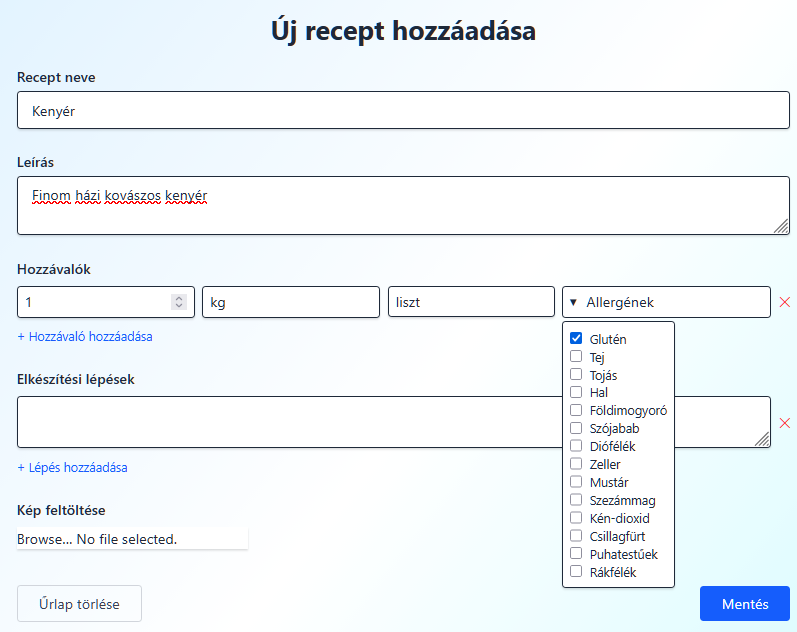
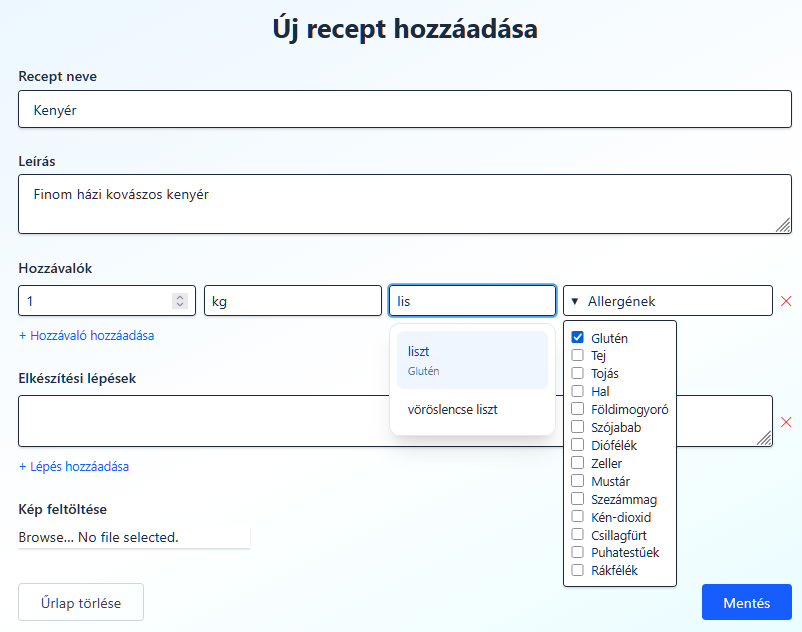
Added more things

diff --git a/docs/thesis-latex/chapters/problem-definition.tex b/docs/thesis-latex/chapters/problem-definition.tex
@@ -37,6 +37,8 @@ Elindításához Linux és macOS rendszereken a \texttt{start.sh}, Windows rends
 Az alapbeállításokkal a rendszer a \texttt{http://localhost:9393} címen lesz elérhető, amit egy webböngészőben lehet megnyitni.
 
 \section{Funkciók}
+Ez a szoftver otthoni felhasználóknak készült, akik receptjeiket szeretnék nyilvántartani és megosztani. A célközönség főként házi szakácsok és gasztronómiai hobbisták.
+
 Az alkalmazásban két fajta felhasználói szerepkör van: adminisztrátor és normál felhasználó. Az oldalon regisztráció nélkül böngészhetőek a receptek. Bejelentkezés után a normál felhasználók hozzáférhetnek a közösségi funkciókhoz, kezelhetik saját receptjeiket, míg az adminisztrátorok további jogosultságokkal rendelkeznek, mint például a felhasználók kezelése.
 \subsection{Receptkezelés}
 A felület lehetővé teszi a felhasználók számára, hogy könnyedén létrehozzanak, szerkeszthessenek és törölhessenek recepteket. Minden recepthez megadható egy cím, leírás, hozzávalók listája és elkészítési útmutató. Egy képet is feltölthetnek a recepthez. 
@@ -55,7 +57,7 @@ A felhasználók saját profiljukat is kezelhetik, ahol megtekinthetik és szerk
 
 \section{Az alkalmazás használatának felépítése}
 
-Az alkalmazás fő eleme az oldal felső részén elhelyezkedő navigációs sáv. Ez a sáv minden oldalon elérhető, és lehetővé teszi a gyors hozzáférést a legfontosabb funkciókhoz. A sávban található egy keresőmező, amely azonnali keresést tesz lehetővé a receptek között, találatokat jelenít meg a kulcsszavak alapján szinte azonnal. Ezen kívül ebben a sávban helyezkednek el gombok a bejelentkezéshez, új recept létrehozásához és összes recept listázására is.
+Az alkalmazás fő eleme az oldal felső részén elhelyezkedő navigációs sáv, amely a~\ref{fig:navbar} ábrán látható. Ez a sáv minden oldalon elérhető, és lehetővé teszi a gyors hozzáférést a legfontosabb funkciókhoz. A sávban található egy keresőmező, amely azonnali keresést tesz lehetővé a receptek között, találatokat jelenít meg a kulcsszavak alapján. Ezen kívül ebben a sávban helyezkednek el gombok a bejelentkezéshez, új recept létrehozásához és összes recept listázására is.
 
 \begin{figure}[H]
 	\centering
@@ -65,7 +67,7 @@ Az alkalmazás fő eleme az oldal felső részén elhelyezkedő navigációs sá
 
 \subsection{Kezdőoldal és receptlista}
 
-A kezdőlapon két kiemelt elem található: egy kiemelt recept szekció, ahol egy előre meghatározott recept jelenik meg, valamint egy recept kirakat, ahol minden nap hat véletlenszerű recept jelenik meg. Az oldal felső részén egy gomb is helyett kapott, amelyre kattintva megjelenik a recept listázó oldal.
+A kezdőlapon két kiemelt elem található: egy kiemelt recept szekció, ahol egy előre meghatározott recept jelenik meg, valamint egy recept kirakat, ahol minden nap hat véletlenszerű recept jelenik meg. Az oldal felső részén egy gomb is helyett kapott, amelyre kattintva megjelenik a recept listázó oldal. 
 
 \begin{figure}[H]
 	\centering
@@ -74,11 +76,11 @@ A kezdőlapon két kiemelt elem található: egy kiemelt recept szekció, ahol e
 \end{figure}
 
 
-A kiemelt receptnek láthatjuk a címét, egy rövid leírást és egy képet, valamint a recept értékelését. A recept kirakatban szintén megjelenik a cím, egy rövid leírás és egy kép, de az értékelés nem látható. Mindkét szekcióban kattinthatóak a receptek, így a részletes oldalra navigálhatunk.
+A kiemelt receptnél látható a címe, egy rövid leírás és egy kép, valamint a recept értékelése, amely a~\ref{fig:home-page}. ábrán megtekinthető. A recept kirakatban szintén megjelenik a cím, egy rövid leírás és egy kép, azonban az értékelés nem látható. Mindkét szekcióban kattinthatók a receptek, így a részletes oldalra navigálhatunk.
 
 \subsection{Recept részletező oldal}
 
-Rögtön a recept címe, leírása és képe jelenik meg. A kép felett látható a recept értékelése, amely a korábban említett módon, csillagok formájában jelenik meg. A csillagokra kattintva a recept értékelésére van lehetőség, amely új értékelést ad a recepthez. Egy felhasználó csak egyszer értékelhet egy receptet, de korábbi értékelését módosíthatja.
+Ez az oldal a~\ref{fig:navbar}. ábrán tekinthető meg. Elsőként a recept címe, leírása és képe jelenik meg. A kép felett látható a recept értékelése, amely a korábban említett módon, csillagok formájában jelenik meg. A csillagokra kattintva a recept értékelésére van lehetőség, amely új értékelést ad a recepthez. Egy felhasználó csak egyszer értékelhet egy receptet, de korábbi értékelését módosíthatja.
 
 A leírás alatt kap helyet a hozzávalók listája és az elkészítési útmutató. Könnyen áttekinthető formátumban jelennek meg, ahol a hozzávalók egy felsorolásban, míg az elkészítési útmutató egy számozott listában van megjelenítve. A kép alatt helyezkedik el az allergének listája is. 
 
@@ -88,7 +90,7 @@ A leírás alatt kap helyet a hozzávalók listája és az elkészítési útmut
 	\caption{A recept részletező oldal felépítése}\label{fig:recipe-details}
 \end{figure}
 
-Ezek alatt található a komment szekció. A kommentek időrendben jelennek meg, a legfrissebb komment van legfelül. Minden kommentben látható a kommentelő neve, a komment szövege és időpontja. A kommentelési blokk legfelső részén jelenik meg a beviteli mező, ahol a felhasználók új kommentet írhatnak. Ez csak akkor kitölthető, ha a felhasználó be van jelentkezve. 
+Az oldalon ez alatt található a komment szekció, amely a~\ref{fig:comment-section}. ábrán látható. A kommentek időrendben jelennek meg, a legfrissebb komment van legfelül. Minden kommentben látható a kommentelő neve, a komment szövege és időpontja. A kommentelési blokk legfelső részén jelenik meg a beviteli mező, ahol a felhasználók új kommentet írhatnak. Ez csak akkor kitölthető, ha a felhasználó be van jelentkezve.
 
 
 Bejelentkezés után a kép alatt megjelenik két gomb, amely lehetővé teszi a recept szerkesztését, illetve törlését, amennyiben a recept létrehozója vagy adminisztrátor vagyunk. A szerkesztés egy új oldalra navigál, ahol módosíthatjuk a recept adatait, hozzávalóit, elkészítési útmutatóját és képét. A törlés gomb megnyomásával egy felugró ablak jelenik meg, hogy biztosan szeretnénk-e törölni a receptet. 
@@ -103,7 +105,7 @@ Bejelentkezés után a kép alatt megjelenik két gomb, amely lehetővé teszi a
 
 A receptek létrehozására, illetve szerkesztésére egy ugyanúgy felépített oldalon van lehetőség.
 Ezen a felületen tudjuk megadni a recept címét, leírását, hozzávalókat, elkészítési útmutatót, illetve tudunk feltölteni képet. A rendszer minden hozzávalóhoz automatikusan megpróbálja kitalálni, hogy milyen allergén információk tartoznak hozzá, de ezeket a felhasználó manuálisan is módosíthatja. 
-Kötelező megadni a címet; leírást; legalább egy darab összetevőt, annak minden elemét; illetve egy elkészítési lépést. Kép feltöltése, illetve további allergének megjelölése opcionális. A hozzávalókhoz megadott allergének alapján készül el a recepthez az allergénlista. Minden beküldendő adat a felületen ellenőrizve van, nem engedi az oldal, hogy hibás adatokkal küldjünk be receptet. A felületen egyértelműen fel van tüntetve, ha a recept készítése közben valamilyen hiba történik.
+Kötelező megadni a címet; leírást; legalább egy darab összetevőt, annak minden elemét; illetve egy elkészítési lépést. Kép feltöltése, illetve további allergének megjelölése opcionális.  Minden beküldendő adat a felületen ellenőrizve van, nem engedi az oldal, hogy hibás vagy hiányos adatokkal küldjünk be receptet. A felületen egyértelműen fel van tüntetve, ha a recept készítése közben valamilyen hiba történik.
 
 \begin{figure}[H]
 	\centering
@@ -111,11 +113,14 @@ Kötelező megadni a címet; leírást; legalább egy darab összetevőt, annak 
 	\caption{A recept létrehozására és szerkesztésére szolgáló felület}\label{fig:recipe-editor}
 \end{figure}
 
+A~\ref{fig:recipe-editor} ábrán jól látható, hogyan jelölhetőek ki egyes összetevőkhöz az allergének. Összetevőket az adminisztrátori joggal rendelkezők hozhatnak létre. Az összetevő nevének első pár karakterének megadásakor a rendszer egy gyors keresés alapján potenciális összetevőket jelenít meg. A keresési találatokból a felhasználók választhatnak. Minden hozzávalóhoz allergének vannak rendelve, amelyek kijelölődnek, amikor a felhasználók elfogadják az összetevő keresőjének találatát.
+A hozzávalókhoz megadott allergének alapján áll össze a recept allergénlistája.
+
 \subsection{Keresés és szűrés}
 
 Az oldal két keresési lehetőséget ad a felhasználónak. Ennek az egyik implementációja a navigációs sávban helyezkedik el. A másik részletesebb keresőt a recepteket listázó oldalon találjuk. 
 
-A navigációs sávban egy már ismert kereső helyezkedik el. Itt a recept címei alapján gyorskeresés történik. Amint a felhasználó elkezd beírni legalább 3 karaktert, az oldal találatokat jelenít meg egy leugró ablakban. Ez úgy lett kialakítva, hogy gyors, szinte azonnali legyen a találatok megjelenítése. A kereső megjeleníti azt is, ha nincs találat.
+A navigációs sávban egy már ismert kereső helyezkedik el. Itt a recept címei alapján gyorskeresés történik. Amint a felhasználó elkezd beírni legalább 3 karaktert, az oldal találatokat jelenít meg egy leugró ablakban. Ez úgy lett kialakítva, hogy gyors, szinte azonnali legyen a találatok megjelenítése. A kereső megjeleníti azt is, ha nincs találat. A következő ábrán tekinthető meg a gyorskereső:
 
 \begin{figure}[H]
     \centering
@@ -133,7 +138,7 @@ A navigációs sávban egy már ismert kereső helyezkedik el. Itt a recept cím
 \end{figure}
 
 
-A másik, összetettebb keresőnél a recept címe mellett allergének alapján lehet szűrni a recepteket. Külön részt kapott, ahol megjelölhetjük azt, hogy mely allergének legyenek benne a keresendő receptekben, illetve melyek maradjanak ki. Ezután az oldalon a csak ezen beállítások alapján leszűrt recepteket böngészhetjük, oldalakba rendezve. Az oldalak közötti váltást a lap alján megjelenő paginációval lehet megvalósítani.
+A másik, összetettebb keresőnél a recept címe mellett allergének alapján lehet szűrni a recepteket. Külön részt kapott, ahol megjelölhetjük azt, hogy mely allergének legyenek benne a keresendő receptekben, illetve melyek maradjanak ki. Ezután az oldalon csak ezen beállítások alapján leszűrt recepteket böngészhetjük, oldalakba rendezve. Az oldalak közötti váltást a lap alján megjelenő paginációval lehet megvalósítani, amely a~\ref{fig:recipe-editor} ábra alján látható.
 
 \begin{figure}[H]
 	\centering
@@ -143,7 +148,7 @@ A másik, összetettebb keresőnél a recept címe mellett allergének alapján 
 
 \subsection{Bejelentkezés és regisztráció}
 
-A navigációs sávban található a bejelentkezés gomb, ami átirányít a bejelentkezés és regisztrációs felületre. Itt már regisztrált felhasználók jelentkezhetnek be email cím és jelszó megadásával. Az oldal felső részén szereplő regisztráció fül megnyomásával lehet a regisztrációs űrlapot megjeleníteni. Meg kell adni a becenevet, email címet, jelszót és jelszónak a megerősítését a regisztrációhoz. Sikeres regisztráció után a felület azonnal be is jelentkeztet minket. Bármilyen hiba esetén az űrlap jelzi, hogy mely mezőkben megadott adattal van probléma. Bejelentkezés után lehet létrehozni receptet, kommentelni receptekhez, értékelni receptet és megtekinteni mások profilját.
+A navigációs sávban található a bejelentkezés gomb, ami átirányít a bejelentkezés és regisztrációs felületre. Itt már regisztrált felhasználók jelentkezhetnek be email cím és jelszó megadásával. Az oldal felső részén szereplő regisztráció fül megnyomásával lehet a regisztrációs űrlapot megjeleníteni. Meg kell adni a nevet, email címet, jelszót és jelszónak a megerősítését a regisztrációhoz. Sikeres regisztráció után a felület azonnal be is jelentkeztet minket. Bármilyen hiba esetén az űrlap jelzi, hogy mely mezőkben megadott adattal van probléma. Bejelentkezés után lehet létrehozni receptet, kommentelni receptekhez, értékelni receptet és megtekinteni mások profilját. A bejelentkezési és regisztrációs felületet a következő ábrán található:
 
 
 \begin{figure}[H]
@@ -162,7 +167,7 @@ A navigációs sávban található a bejelentkezés gomb, ami átirányít a bej
 \end{figure}
 
 \subsection{Profiloldal}
-A profil nézeten minden adatot megtekinthetünk, ami hozzánk kapcsolódik. Más felhasználóknak csak a profilképet és becenevét látjuk. Saját profilunkon látjuk az email címünket, illetve csillagokkal jelezve a jelszót. A profil alatt megjelenik két gomb, ha a saját profilunkat böngésszük: szerkesztés, törlés. Törlés esetén egy felugró ablak jelenik meg, ahol meg kell erősítenünk a törlési szándékot. Szerkesztés esetén minden korábban megadott adatot szerkeszthetünk a korábban említett ellenőrzésekkel. Mindenki profilszekciója alatt egy paginációval ellátott recept lista található, ami listázza a felhasználó receptjeit.
+A profil nézeten minden adatot megtekinthetünk, ami hozzánk kapcsolódik (lásd~\ref{fig:profile-page}). Más felhasználóknak csak a profilképet és becenevét látjuk. Saját profilunkon látjuk az email címünket, illetve csillagokkal jelezve a jelszót. A profil alatt megjelenik két gomb, ha a saját profilunkat böngésszük: szerkesztés, törlés. Törlés esetén egy felugró ablak jelenik meg, ahol meg kell erősítenünk a törlési szándékot. Szerkesztés esetén minden korábban megadott adatot szerkeszthetünk a korábban említett ellenőrzésekkel. Mindenki profilszekciója alatt egy paginációval ellátott recept lista található, ami listázza a felhasználó receptjeit.
 
 \begin{figure}[H]
 	\centering
@@ -172,15 +177,12 @@ A profil nézeten minden adatot megtekinthetünk, ami hozzánk kapcsolódik. Má
 
 \subsection{Adminisztrációs funkciók}
 
-Az oldalon jelen lévő adminisztrációs funkciók legtöbb esetben külön felületet nem kaptak, hanem néhány korábban említett oldal bővül ki új funkciókkal. A receptek alatt tudnak törölni kommenteket, illetve az adott receptet kiemelheti a főoldalra a ``Kiemelt receptté teszem'' gombbal. Emellett az adminisztrátor minden receptet és felhasználót törölhet az oldalról. Profil nézetben más felhasználóknak adminisztrátori jogot tudnak adni. Ezen funkciók~\ref{fig:comment-section} ábrán jól láthatóak.
-
-Emelett az adminisztrátorok egy külön hozzávalók oldalon tudják kezelni a hozzávalók alap allergénjeit. Ezen az oldalon egy hozzávaló keresőmező található, ahol a hozzávalók neve alapján lehet keresni. A felület két részből áll: egy kereső, illetve egy szerkesztő rész. A keresőmezőbe beírva a hozzávaló nevét, megjelennek a találatok egy listában. A találatok között lehet váltani, és a kiválasztott hozzávaló adatai megjelennek a szerkesztő részben. Itt módosítható a hozzávaló alap allergénjei, illetve új allergének is hozzáadhatóak, illetve meglévők törölhetőek.
-
+Az oldalon jelen lévő adminisztrációs funkciók legtöbb esetben külön felületet nem kaptak, hanem néhány korábban említett oldal bővül ki új funkciókkal. A receptek alatt tudnak törölni kommenteket, illetve az adott receptet kiemelheti a főoldalra a ``Kiemelt receptté teszem'' gombbal. Emellett az adminisztrátor minden receptet és felhasználót törölhet az oldalról. Profil nézetben más felhasználóknak adminisztrátori jogot tudnak adni. Ezen funkciók a~\ref{fig:comment-section} ábrán jól láthatóak. 
 \begin{figure}[H]
 	\centering
-	\includegraphics[width=0.9\textwidth]{images/ingredient-edit.png}
+	\includegraphics[width=0.7\textwidth]{images/ingredient-edit.png}
 	\caption{A hozzávalók oldal felépítése}\label{fig:ingredients-page}
 \end{figure}
 
 
-
+Emellett az adminisztrátorok egy külön hozzávalók oldalon tudják kezelni a hozzávalók alap allergénjeit (lásd~\ref{fig:ingredients-page}) Ezen az oldalon egy hozzávaló keresőmező található, ahol a hozzávalók neve alapján lehet keresni. A felület két részből áll: egy kereső, illetve egy szerkesztő rész. A keresőmezőbe beírva a hozzávaló nevét, megjelennek a találatok egy listában. A találatokat kattintással kijelölhetőek, és a kiválasztott hozzávaló adatai megjelennek a szerkesztő részben. Itt módosíthatók a hozzávaló alap allergénjei, illetve új allergének is hozzáadhatók, illetve meglévők törölhetőek.

diff --git a/docs/thesis-latex/chapters/testing.tex b/docs/thesis-latex/chapters/testing.tex
@@ -1,13 +1,15 @@
 \section{Tesztelés}\label{ch:testing}
 
-Az időkorlátok miatt a tesztelés során az end-to-end tesztek kerültek előtérbe, mivel ezek biztosítják a legnagyobb lefedettséget a teljes alkalmazás működésére. A unit tesztek bevezetése a jövőbeni fejlesztések során tervezett.
+A tesztelési stratégia kialakításánál a teljes rendszer működésének ellenőrzése volt a fő szempont. Ennek megfelelően az end-to-end (továbbiakban E2E) tesztek kerültek előtérbe, mivel ezek képesek a frontend és backend komponensek együttes működését vizsgálni.
+
+Ez a megközelítés különösen előnyös olyan webalkalmazások esetében, ahol több réteg szoros együttműködése szükséges. Az E2E tesztek így magas szintű lefedettséget biztosítanak a legfontosabb funkcionális folyamatokra.
 
 \subsection{E2E tesztelés}
 
-Az end-to-end tesztek a Cypress keretrendszer segítségével lettek megvalósítva. A Cypress egy modern, JavaScript-alapú tesztelési eszköz, amely lehetővé teszi a fejlesztők számára, hogy könnyedén írjanak és futtassanak teszteket a webalkalmazások működésének ellenőrzésére. A Cypress használata során a tesztek szintén TypeScript-ben íródtak, ami biztosítja a típusosságot és a jobb fejlesztői élményt. 
+Az end-to-end tesztek a Cypress keretrendszer segítségével lettek megvalósítva. A Cypress egy modern, JavaScript-alapú tesztelési eszköz, amely lehetővé teszi a fejlesztők számára, hogy könnyedén írjanak és futtassanak teszteket a webalkalmazások működésének ellenőrzésére. A Cypress használata során a tesztek TypeScript-ben íródtak, ami biztosítja a típusosságot és a jobb fejlesztői élményt. 
 
 
-Az E2E teszelés célja, hogy a teljes alkalmazás működését tesztelje, úgy, hogy a tesztek valódi felhasználói interakciókat szimulálnak, például gombnyomásokat, űrlapkitöltéseket és navigációt. Ez lehetővé teszi a fejlesztők számára, hogy biztosak legyenek abban, hogy az alkalmazás minden része megfelelően működik együtt, és hogy a felhasználói élmény zökkenőmentes. Egy példa egy ilyen tesztre az alkalmazában a következő:
+Az E2E tesztelés célja, hogy a teljes alkalmazás működését tesztelje, úgy, hogy a tesztek valódi felhasználói interakciókat szimulálnak, például gombnyomásokat, űrlapkitöltéseket és navigációt. Ez lehetővé teszi a fejlesztők számára, hogy biztosak legyenek abban, hogy az alkalmazás minden része megfelelően működik együtt, és hogy a felhasználói élmény zökkenőmentes. Egy példa egy ilyen tesztre az alkalmazásban a következő:
 
 \begin{figure}[H]
 	\centering
@@ -15,7 +17,7 @@ Az E2E teszelés célja, hogy a teljes alkalmazás működését tesztelje, úgy
 	\caption{Példa E2E teszt a kezdőlapon}\label{fig:hometest}
 \end{figure}
 
-A telejes alkalmazásra vonatkozó E2E tesztek lefedik a legfontosabb funkciókat, mint például a regisztráció, bejelentkezés, receptek megtekintése, létrehozása, szerkesztése, hozzávalók szerekesztése és adminisztrációs műveletek. Minden teszt meg van jelölve, melyik felhasználó esetet teszteli. Ezeket a~\ref{ch:stories} függelékben találhatóak.
+A telejes alkalmazásra vonatkozó E2E tesztek lefedik a legfontosabb funkciókat, mint például a regisztráció, bejelentkezés, receptek megtekintése, létrehozása, szerkesztése, hozzávalók szerekesztése és adminisztrációs műveletek. Minden teszt megkapta a felhasználói eset kódját, így könnyedén visszaellenőrizhető, hogy mely folyamatokkal van probléma hiba esetén. Ezek a~\ref{ch:stories} függelékben találhatók.
 
 \begin{figure}[H]
 	\centering
@@ -23,4 +25,4 @@ A telejes alkalmazásra vonatkozó E2E tesztek lefedik a legfontosabb funkcióka
 	\caption{Az E2E teszt futtatásának eredményei}\label{fig:all-test-run}
 \end{figure}
 
-A Cypress lehetőséget ad egy interaktív félületen keresztül megtekinteni a tesztek futását, ahol részeletes láthatjuk mely tesztek futottak le sikeresen, melyek nem, és ha egy teszt nem sikerült, akkor a hiba okát is megmutatja. Egyben ez felület több böngészőben is tesz lehetővé tesztelést, így biztosítva a kompatibilitást különböző környezetekben. Ez különösen fontos egy webalkalmazás esetében, ahol a felhasználók különböző böngészőket és eszközöket használhatnak. 
+A Cypress lehetőséget ad egy interaktív félületen keresztül megtekinteni a tesztek futását, ahol részletesen láthatjuk, hogy mely tesztek futottak le sikeresen, melyek nem, és ha egy teszt nem sikerült, akkor a hiba okát is megmutatja. Egyben ez a felület több böngészőben lehetővé teszi tesztelést, így biztosítva a kompatibilitást különböző környezetekben. Ez különösen fontos egy webalkalmazás esetében, ahol a felhasználók különböző böngészőket és eszközöket használhatnak. 

diff --git a/docs/thesis-latex/chapters/summary.tex b/docs/thesis-latex/chapters/summary.tex
@@ -1,8 +1,8 @@
 \chapter{Összegzés  }\label{ch:summary}
 
-Összességében úgy érzem, sikerült minden fontosabb követelményt megvalósítanom. Először dolgoztam ASP.NET Core rendszerrel, így a backend fejlesztése különösen tanulságos volt számomra. Sokat fejlődött a generikus kód írási képességem is. A szigorú alapkövetelményeknek köszönhetően könnyedén tudtam bővíteni a a rendszert funkciókkal.
+Összességében úgy érzem, sikerült minden fontosabb követelményt megvalósítanom. Először dolgoztam ASP.NET Core rendszerrel, így a backend fejlesztése különösen tanulságos volt számomra. Sokat fejlődött a generikus kód írási képességem is. A szigorú alapkövetelményeknek köszönhetően könnyedén tudtam bővíteni a rendszert funkciókkal.
 
-Lefontosabb célkitőzésem azt volt, hogy a szofter nagyon könnyedén indítható legyen helyi környezetben, minimális külső függőséggel. A szakdolgozat írás közben ismerkedtem meg jobban a GitHub, GitHub Actions és a Docker használatával. Ennek köszönhetően a kód felhőben tárolva, bizonságosan verziókezelve van. A GitHub Actions segítségével pedig egy teljesen automatizált build folyamatot hoztam létre.
+Lefontosabb célkitőzésem azt volt, hogy a szofter nagyon könnyedén indítható legyen helyi környezetben, minimális külső függőséggel. A szakdolgozat írása közben ismerkedtem meg jobban a GitHub, GitHub Actions és a Docker használatával. Ennek köszönhetően a kód felhőben tárolva, bizonságosan verziókezelve van. A GitHub Actions segítségével pedig egy teljesen automatizált build folyamatot hoztam létre.
 
 Szeretnék köszönetet nyílvántítani Kovács Sándor Márknak a folyamatos támogatásért, a hasznos tanácsokért és a szakmai útmutatásért. Sok időmbe telt, mire megírtam ezt a dolgozatot, és a segítsége nélkül nem lett volna lehetséges. Köszönöm a türelmét és a biztatását páromnak, volt csoportársaimnak és barátaimnak, akik végig mellettem álltak, és segítettek megtartani a motivációmat.
 
@@ -10,11 +10,11 @@ Szeretnék köszönetet nyílvántítani Kovács Sándor Márknak a folyamatos t
 
 A webalkalmazás jelenlegi állapotában is teljes funkcionalitást nyújt, azonban számos lehetőség van a további fejlesztésre. Néhány lehetséges irány:
 \begin{itemize}
-    \item E-mail szolgáltatás integrálása a regisztráció és jelszó visszaállítás folyamatába.
+    \item E-mail szolgáltatás integrálása a regisztráció és jelszóvisszaállítás folyamatába.
     \item Közösségi média integráció, például Google vagy Facebook bejelentkezés.
     \item Cimkézés és kategorizálás a receptekhez, hogy könnyebben lehessen keresni és szűrni őket.
     \item Receptajánló rendszer fejlesztése, amely a felhasználói preferenciák és korábbi aktivitás alapján ajánl recepteket.
     \item Mobilalkalmazás fejlesztése a webalkalmazás mellett
     \item Keresési és szűrési funkciók továbbfejlesztése, például összetettebb szűrők
-    
+    \item Unit és integrációs tesztek bevezetése, elsősorban az egyes komponensek finomabb szintű ellenőrzése érdekében.
 \end{itemize}
